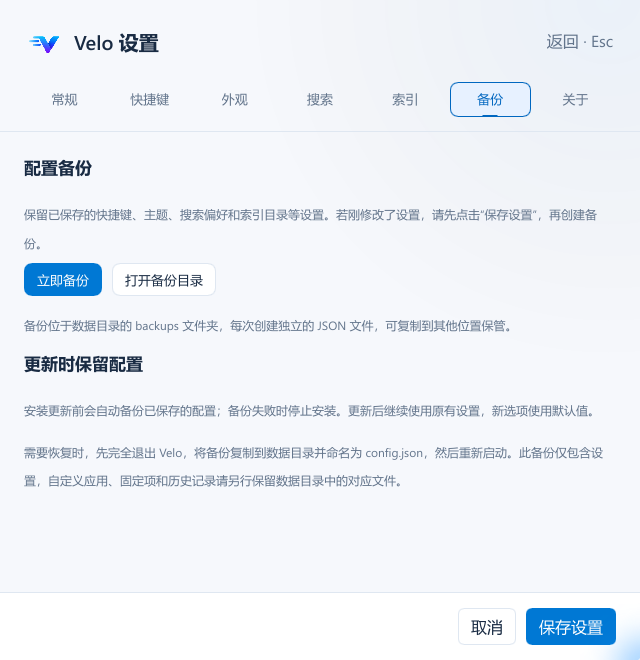
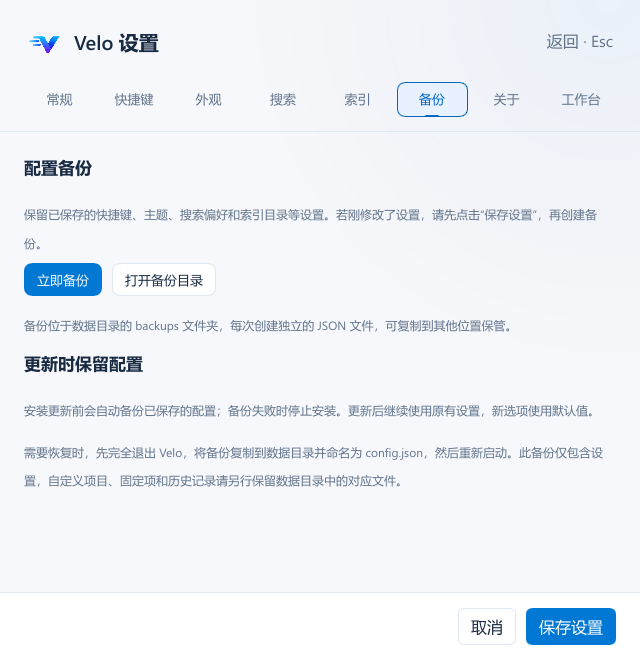
docs: 更新 Velo v0.13.0 官网截图与宣传片素材

diff --git a/docs/images/README.md b/docs/images/README.md
@@ -1,44 +1,26 @@
-# Rust + Slint 界面截图
+# Velo v0.13.0 界面截图
 
-[项目首页](../../README.md) · [用户指南](../user-guide.md) · [采集清单与校验值](capture-manifest.json)
+[项目首页](../../README.md) · [用户指南](../user-guide.md) · [宣传片素材](video-v0.13/README.md) · [采集清单与校验值](capture-manifest.json)
 
-本组 **12 张真实 Windows 窗口截图**于 2026-11-18 更新，展示 0.11.0 Software 开发构建的简体中文界面。中英文 README 共用这些图片。0.11.0 尚未发布，Everything 与启动组合不属于已发布的 v0.10.0。
+2026-11-26（北京时间）采集了 20 张 Windows 实机截图。使用 v0.13.0 标签源码的本机 Software 正式产品构建，Slint 1.18.1、winit。系统为 Windows 11 x64 26340，桌面 1920 × 1080，缩放 100%。 [版本说明](../releases/0.13.0.md)
 
-## 构建与环境
+## 启动器与工作台
 
-- Velo 0.11.0、Rust 1.99.1、Slint 1.18.1、winit、Software renderer，正式 `product` feature，使用独立实例和演示数据目录运行。
-- Windows 11 专业版 Insider Preview，10.0.26340；原生 DPI 96、缩放 100%，窗口宽度为 640 像素。
-- 构建前完成 `./scripts/verify-rust.ps1 -Product -SmokeTest`；Software / FemtoVG 各 117 项 Rust 测试及完整原生、窗口、输入和页面检查通过。
[1 lines of base64/hex data omitted]
+- 首页展示固定项目、常用项目和系统快捷。「专注工作」组合已固定。 [浅色首页](home-light.png) · [深色首页](home-dark.png)
+- 搜索「演示」查看同一组 6 个应用的名称、图标和列表路径。 [列表](search-list.png) · [六列网格](search-grid.png) · [7-Zip 原生菜单](context-menu.png)
+- 搜索「会议纪要」返回 5 个示例文件与文件夹，截图选中了文本纪要。 [文件搜索](everything-search.png) · [Everything 设置](everything-settings.png)
+- 「专注工作」组合配置了记事本、计算器和字符映射表。 [启动组合编辑器](launch-groups.png)
+- 短按侧键打开上方全局动作和下方应用动作。长按划向上方后，快捷盘提示「松开执行」。 [工作台](workspace-panel.png) · [快捷盘](workspace-gesture.png)
+- 设置和自定义项目页面。 [外观](appearance.png) · [自定义项目](custom-apps.png) · [配置备份](config-backup.png) · [关于](about.png)
 
-构建仍来自未提交工作区；源码指纹记录实际输入，不把当前 Git 提交当成干净发行构建。截图用于说明界面与操作，不构成新的性能、跨机器或真实 IME 验收。
+## 官网用图
 
-## 场景与用途
+独立官网的主题切换使用 `/assets/home-light.webp` 和 `/assets/home-dark.webp`。对应文件是 640 × 660 的无损 WebP，解码像素与上面的 PNG 一致。 [浅色 WebP](site/home-light.webp) · [深色 WebP](site/home-dark.webp)
 
-- [home-light.png](home-light.png)、[home-dark.png](home-dark.png)：640 × 660，同一组首页的深浅主题。固定、常用与系统快捷展示于同一窗口，更多内容可滚动查看。
-- [search-list.png](search-list.png)：640 × 480，查询“演示”，展示六项公开应用及真实安装路径。
-- [search-grid.png](search-grid.png)：640 × 316，同一组结果的六列网格；保留产品实际动态高度。
-- [context-menu.png](context-menu.png)：640 × 480，7-Zip 的 Windows 原生右键菜单，含打开、安装目录、管理员启动和取消置顶。
-- [appearance.png](appearance.png)：640 × 660，主题预览、浅色主题及网格排列选项。
-- [everything-search.png](everything-search.png)：640 × 504，真实 Query2 IPC 返回的六项隔离示例结果，包含文件夹、TXT、Markdown 和 CSV。
-- [everything-settings.png](everything-settings.png)：640 × 660，文件搜索开关与可选程序路径。
-- [launch-groups.png](launch-groups.png)：640 × 660，“专注工作”组合编辑器，展示筛选后的应用库和两个成员；拍摄期间没有执行组合启动。
-- [custom-apps.png](custom-apps.png)：640 × 660，拖入、选择文件、粘贴路径与公开应用列表。
-- [config-backup.png](config-backup.png)：640 × 660，备份入口及恢复说明；此图展示入口，不表示正在执行或已经完成备份。
-- [about.png](about.png)：640 × 660，当前版本、更新开关和许可入口。
+## 采集环境
 
-## 数据与采集方式
+Velo 使用独立实例、数据目录与热键。固定项、组合和使用记录使用演示数据，应用名称与图标来自本机真实应用。Everything 使用独立的 1.4.1.1015 客户端配置，只索引 `D:\VeloDemo` 的公开样例。Everything 和工作台默认关闭。
 
-固定项、自定义应用、别名和使用记录为文档准备的演示数据；自动索引与应用图标来自本机 Windows 原生发现。应用数量、常用排序与所选偏好属于演示环境，不是新安装默认值。截图中启用了 Everything，产品默认关闭。
+启动器以原始窗口位图采集。原生菜单和记事本按窗口可见边界截取，工作台与快捷盘使用桌面验证脚本的合成侧键和隔离编辑器。截图保留原比例，鼠标指针与操作光晕在画面外。清单记录尺寸、采集时间、来源、构建提交与 SHA-256。 [采集清单](capture-manifest.json)
 
-文件搜索使用已有 Everything 1.4.1.1032 程序、独立 INI 与仅包含六项公开内容的文件夹索引。图片没有包含私人文件或用户名。拍摄使用独立热键，未使用正式 `%LOCALAPPDATA%\Velo` 数据。
-
-图片直接由窗口原始位图保存为 PNG；原生菜单在其所属窗口的已观测屏幕边界内采集，以保留弹出层。没有缩放、拼接、重绘或替换界面内容。README 的显示宽度只影响页面预览，点击可查看原始文件。每张图片的尺寸、来源方法、UTC / 北京时间和 SHA-256 均保存在 [capture-manifest.json](capture-manifest.json)。
-
-拍摄实例和临时 Everything 客户端已退出，原有正式 Velo 与 Everything 服务保留。验证范围与临时资源处理见上述本轮记录。
-
-## 后续更新
-
-使用待记录构建和独立演示数据，保持主题、缩放与应用集合一致，等待图标及过渡完成后采集窗口。更新图片时同步中英文 README、用户指南及采集清单，检查版本、场景、文字、隐私和校验值。不要提交用户配置、索引、历史、缓存或本地采集日志。
-
-旧版界面截图随旧版源码保存在 [go 分支](https://github.com/HBLADEH/velo-launcher/tree/go/docs/images)；`docs/baselines/` 内的历史验证图片保留原始构建身份。
+旧版 Go/Wails 图片随历史源码保存。 [v0.9.11 截图](https://github.com/HBLADEH/velo-launcher/tree/v0.9.11/docs/images) · [Rust 验收基线](../baselines/README.md)

diff --git a/README.en.md b/README.en.md
@@ -28,36 +28,41 @@ The native UI and application logic run in a single process. Settings, the app i
 
 ## Screenshots
 
-Actual Windows captures of the **0.11.0 Software development build**, using an independent demo configuration, pins and usage records. Everything is enabled for this demo; integration is disabled by default. Images retain their captured pixel dimensions and are stored as PNG. See the [capture notes](docs/images/README.md) for build identity and all scenes. The interface is in Chinese.
+Windows captures of **Velo v0.13.0 Software**, using an independent demo configuration and sample data. The demo enables Everything and the experimental workspace. The interface is in Simplified Chinese. [Capture notes](docs/images/README.md)
 
 <p align="center">
   <picture>
     <source media="(prefers-color-scheme: dark)" srcset="docs/images/home-dark.png" />
     <source media="(prefers-color-scheme: light)" srcset="docs/images/home-light.png" />
-    <img src="docs/images/home-light.png" alt="Velo Rust home with pins, frequently used apps and Windows shortcuts" width="640" />
+    <img src="docs/images/home-light.png" alt="Velo Home with pinned apps and a launch group, frequent items and Windows shortcuts" width="640" />
   </picture>
 </p>
-<p align="center"><em>Home brings pins, frequent apps and Windows shortcuts together. Scroll to see more.</em><br /><a href="docs/images/home-light.png">View light theme</a> · <a href="docs/images/home-dark.png">View dark theme</a></p>
+<p align="center"><em>Open pinned apps, launch groups, frequent items and Windows shortcuts from Home.</em><br /><a href="docs/images/home-light.png">View light theme</a> · <a href="docs/images/home-dark.png">View dark theme</a></p>
 
 <table>
   <tr><th>List search</th><th>Grid search</th></tr>
   <tr>
     <td valign="top"><a href="docs/images/search-list.png"><img src="docs/images/search-list.png" alt="List results for public demo apps, with names, paths and selection" width="420" /></a><br />Names, paths and icons, with arrow-key selection and Enter to launch.</td>
-    <td valign="top"><a href="docs/images/search-grid.png"><img src="docs/images/search-grid.png" alt="The same ranked demo results in a six-column grid" width="420" /></a><br />The same ranking presented as an icon grid.</td>
+    <td valign="top"><a href="docs/images/search-grid.png"><img src="docs/images/search-grid.png" alt="Six demo apps in a six-column grid" width="420" /></a><br />Icons and names in a grid with four-way arrow-key selection.</td>
   </tr>
-  <tr><th>Everything file search · New in 0.11.0</th><th>Launch groups · New in 0.11.0</th></tr>
+  <tr><th>Everything file search</th><th>Launch groups</th></tr>
   <tr>
-    <td valign="top"><a href="docs/images/everything-search.png"><img src="docs/images/everything-search.png" alt="File mode shows six public sample files and folders from an isolated directory" width="420" /></a><br />Press Tab to search files and folders, then open, reveal or copy paths.</td>
-    <td valign="top"><a href="docs/images/launch-groups.png"><img src="docs/images/launch-groups.png" alt="A focus-work group with a filtered app library and Notepad and Chrome members" width="420" /></a><br />Drag library apps into a named group, save, then search its name to launch.</td>
+    <td valign="top"><a href="docs/images/everything-search.png"><img src="docs/images/everything-search.png" alt="File mode with sample meeting notes selected among other demo files and folders" width="420" /></a><br />Press Tab to search files and folders, then open, reveal or copy paths.</td>
+    <td valign="top"><a href="docs/images/launch-groups.png"><img src="docs/images/launch-groups.png" alt="A focus-work group with Notepad, Calculator and Character Map as its three members" width="420" /></a><br />Drag library apps into a named group, save, then search its name to launch.</td>
+  </tr>
+  <tr><th>Workspace (experimental)</th><th>Gesture pad (experimental)</th></tr>
+  <tr>
+    <td valign="top"><a href="docs/images/workspace-panel.png"><img src="docs/images/workspace-panel.png" alt="Workspace with global actions above and app-specific actions below" width="320" /></a><br />Tap the mouse side button to open the two-section panel.</td>
+    <td valign="top"><a href="docs/images/workspace-gesture.png"><img src="docs/images/workspace-gesture.png" alt="Gesture pad with the launcher highlighted at the top and a release-to-run message in the center" width="298" /></a><br />Hold the side button, move toward a bound direction and release to run.</td>
   </tr>
   <tr><th>Native context menu</th><th>Appearance settings</th></tr>
   <tr>
     <td valign="top"><a href="docs/images/context-menu.png"><img src="docs/images/context-menu.png" alt="7-Zip native menu with open, installation directory, administrator launch and unpin actions" width="420" /></a><br />Open installation folders, run as administrator or manage pins.</td>
-    <td valign="top"><a href="docs/images/appearance.png"><img src="docs/images/appearance.png" alt="Windows Blue appearance preview with light theme and grid layout selected" width="420" /></a><br />Choose a theme and result layout, then save.</td>
+    <td valign="top"><a href="docs/images/appearance.png"><img src="docs/images/appearance.png" alt="Windows Blue appearance preview with light theme and list layout selected" width="420" /></a><br />Choose a theme and result layout, then save.</td>
   </tr>
 </table>
 
-See the [screenshot directory](docs/images/README.md) for more captures.
+See the [screenshot directory](docs/images/README.md) for more captures and promotional video stills.
 
 ## Features
 

diff --git a/README.md b/README.md
@@ -28,36 +28,41 @@ Velo 是一款面向 **Windows 10 / 11 x64** 的中文应用启动器，使用 *
 
 ## 界面预览
 
-以下为 **0.11.0 Software 开发构建**的真实 Windows 窗口，使用独立演示配置、固定项和使用记录。演示环境启用了 Everything，该功能默认关闭。图片按原始像素保存为 PNG；构建身份与完整场景见[截图说明](docs/images/README.md)。
+以下是 **Velo v0.13.0 Software** 的 Windows 实机截图，使用独立的演示配置与示例数据。演示中开启了 Everything 和测试版工作台。 [截图说明](docs/images/README.md)
 
 <p align="center">
   <picture>
     <source media="(prefers-color-scheme: dark)" srcset="docs/images/home-dark.png" />
     <source media="(prefers-color-scheme: light)" srcset="docs/images/home-light.png" />
-    <img src="docs/images/home-light.png" alt="Velo Rust 浅色首页：固定应用、常用应用与 Windows 系统快捷" width="640" />
+    <img src="docs/images/home-light.png" alt="Velo 浅色首页，展示已固定的应用和启动组合、常用项目与 Windows 系统快捷" width="640" />
   </picture>
 </p>
-<p align="center"><em>首页：固定、常用与系统快捷集中展示，更多内容可滚动查看。</em><br /><a href="docs/images/home-light.png">查看浅色首页</a> · <a href="docs/images/home-dark.png">查看深色首页</a></p>
+<p align="center"><em>在首页打开固定应用、启动组合、常用项目与系统快捷。</em><br /><a href="docs/images/home-light.png">查看浅色首页</a> · <a href="docs/images/home-dark.png">查看深色首页</a></p>
 
 <table>
   <tr><th>列表搜索</th><th>网格搜索</th></tr>
   <tr>
     <td valign="top"><a href="docs/images/search-list.png"><img src="docs/images/search-list.png" alt="列表搜索公开演示应用，显示名称、路径和选中状态" width="420" /></a><br />名称、路径与图标一目了然，方向键选择、Enter 启动。</td>
-    <td valign="top"><a href="docs/images/search-grid.png"><img src="docs/images/search-grid.png" alt="同一组演示结果以六列网格排列" width="420" /></a><br />同一搜索排名，图标与名称按网格排列。</td>
+    <td valign="top"><a href="docs/images/search-grid.png"><img src="docs/images/search-grid.png" alt="六个演示应用以六列网格排列" width="420" /></a><br />图标与名称按网格排列，支持四个方向键选择。</td>
   </tr>
-  <tr><th>Everything 文件搜索 · 0.11.0 新增</th><th>启动组合 · 0.11.0 新增</th></tr>
+  <tr><th>Everything 文件搜索</th><th>启动组合</th></tr>
   <tr>
-    <td valign="top"><a href="docs/images/everything-search.png"><img src="docs/images/everything-search.png" alt="文件模式从隔离目录查询到六项公开示例文件和文件夹" width="420" /></a><br />Tab 切换文件模式，搜索文件与文件夹，支持打开、定位和复制路径。</td>
-    <td valign="top"><a href="docs/images/launch-groups.png"><img src="docs/images/launch-groups.png" alt="专注工作组合：左侧筛选应用库，右侧配置记事本与 Chrome 两个成员" width="420" /></a><br />从应用库拖入成员，保存后搜索组合名称即可批量打开。</td>
+    <td valign="top"><a href="docs/images/everything-search.png"><img src="docs/images/everything-search.png" alt="文件模式选中了 Velo 示例会议纪要，列表同时显示其他演示文件和文件夹" width="420" /></a><br />Tab 切换文件模式，搜索文件与文件夹，支持打开、定位和复制路径。</td>
+    <td valign="top"><a href="docs/images/launch-groups.png"><img src="docs/images/launch-groups.png" alt="专注工作组合的三个成员为记事本、计算器和字符映射表" width="420" /></a><br />从应用库拖入成员，保存后搜索组合名称即可批量打开。</td>
+  </tr>
+  <tr><th>工作台（测试版）</th><th>快捷盘（测试版）</th></tr>
+  <tr>
+    <td valign="top"><a href="docs/images/workspace-panel.png"><img src="docs/images/workspace-panel.png" alt="工作台上方是全局动作，下方是当前应用的专属动作" width="320" /></a><br />短按侧键打开双区矩阵。</td>
+    <td valign="top"><a href="docs/images/workspace-gesture.png"><img src="docs/images/workspace-gesture.png" alt="快捷盘向上选中启动器，中央显示松开执行" width="298" /></a><br />长按侧键并划向已绑定的方向，松开执行。</td>
   </tr>
   <tr><th>原生右键菜单</th><th>外观设置</th></tr>
   <tr>
     <td valign="top"><a href="docs/images/context-menu.png"><img src="docs/images/context-menu.png" alt="7-Zip 的 Windows 原生菜单，包含打开、安装目录、管理员启动和取消置顶" width="420" /></a><br />打开安装目录、以管理员权限启动，或管理首页固定项。</td>
-    <td valign="top"><a href="docs/images/appearance.png"><img src="docs/images/appearance.png" alt="外观设置中的 Windows 蓝主题预览、浅色主题和网格排列" width="420" /></a><br />选择主题与结果排列，保存后生效。</td>
+    <td valign="top"><a href="docs/images/appearance.png"><img src="docs/images/appearance.png" alt="外观设置中的 Windows 蓝主题预览、浅色主题和列表排列" width="420" /></a><br />选择主题与结果排列，保存后生效。</td>
   </tr>
 </table>
 
-更多界面原图见[截图目录](docs/images/README.md)。
+更多界面原图与宣传片定帧见[截图目录](docs/images/README.md)。
 
 ## 主要功能
 

diff --git a/docs/user-guide.md b/docs/user-guide.md
@@ -6,7 +6,7 @@
 
 从[最新发布](https://github.com/HBLADEH/velo-launcher/releases/latest)下载 `velo-rust-x64-installer.exe`（Software 默认）并确认 UAC。FemtoVG / OpenGL 替代构建为 `velo-rust-femtovg-x64-installer.exe`，切换前从托盘完全退出。当前提供系统安装版，新安装默认 `Alt+Space` 呼出；已有用户的快捷键继续保留。产品使用 Rust + Slint，界面为简体中文。
 
-本指南适用于 v0.13.0。截图来自 0.11.0 Software 开发构建的真实 Windows 窗口，使用独立演示配置与示例数据。构建身份和采集方式见[截图说明](images/README.md)。
+本指南适用于 v0.13.0。主要截图来自 v0.13.0 Software 的 Windows 实机窗口，使用独立演示配置与示例数据。 [截图说明](images/README.md)
 
 数据保存在 `%LOCALAPPDATA%\Velo`，首次打开前在同级 `VeloRustMigrationBackups` 完整保留原始数据，备份失败则停止初始化。卸载保留数据与程序恢复档案。早期版本用户请先阅读[安装与迁移说明](releases/0.10.0.md)，确认自己的安装方式对应哪条升级路径。
 
@@ -40,6 +40,11 @@
 - **长按快捷盘**按住侧键后划向目标方向，看到「松开执行」即可松手。方向动作取决于触发时的前台应用。回到中心、划入空方向或按 `Esc` 可取消。未绑定方向可从短按工作台的齿轮进入设置。
 - **动作库**可配置文本、快捷键步骤、本地批处理以及文件或网页入口。快捷键每行一步，例如 `Ctrl+K` 与 `Ctrl+S @150`，其中 `@150` 表示按下这一组合前等待 150 毫秒。文本以明文保存在本地。脚本需确认信任且保存成功后才能执行，文件或参数改变后需要重新确认。
 
+<p align="center">
+  <img src="images/workspace-panel.png" alt="短按侧键打开工作台，显示全局动作和应用动作" width="320" />
+  <img src="images/workspace-gesture.png" alt="长按侧键划向上方，快捷盘提示松开执行" width="298" />
+</p>
+
 短按矩阵支持用 `Tab` 移动焦点，再按 `Enter` 或空格执行。编辑时可把动作拖入槽位，或先选中槽位再点动作旁的「＋」。通过「交换目标」选定目标后，按 `Enter` 或点击「交换槽位」。最后点「保存设置」或按 `Ctrl+S`。应用配置按完整 `.exe` 路径或 Windows 包应用标识匹配。
 
 关闭工作台并保存会释放其侧键与热键、销毁工作台窗口并停止应用识别线程。布局、开关和绑定随 `config.json` 一并备份。
@@ -55,7 +60,7 @@
 
 进入 **设置 → 外观**，打开主题菜单，选择“跟随系统”“浅色”或“深色”。也可使用方向键移动、`Enter` 确认、`Esc` 收起菜单。主题示意图随选择更新，点击“保存设置”后应用到窗口。
 
-<p align="center"><img src="images/appearance.png" alt="Rust 外观设置：主题预览、浅色主题和网格排列" width="640" /></p>
+<p align="center"><img src="images/appearance.png" alt="Windows 蓝预览，使用浅色主题和列表排列" width="640" /></p>
 
 ## 候选项排列与右键菜单
 
@@ -95,7 +100,7 @@
 
 文件列表显示名称、所在目录和类型。↑ / ↓ 选择，Enter 或双击用默认程序打开，Ctrl+Enter 在资源管理器中定位；右键或 Shift+F10 可复制完整路径。单击只选择。文件模式空格始终用于输入，输入法合成期间不切换模式。设置页及原生弹窗仍保留原有 Tab 行为。
 
-<p align="center"><img src="images/everything-search.png" alt="文件模式中的六项隔离示例结果，包含文件夹、TXT、Markdown 和 CSV" width="640" /></p>
+<p align="center"><img src="images/everything-search.png" alt="文件模式查找会议纪要，选中 Velo 示例纪要文本文件" width="640" /></p>
 
 每页加载 50 项，点击“加载更多结果”继续，最多保留 200 项；超出时缩小搜索范围。Esc 先清空查询，再返回应用模式，应用查询为空时隐藏。隐藏后释放文件结果，重新呼出时恢复查询和选择；空闲 30 秒后关闭查询线程。打开失败保留原结果并提示。
 
@@ -107,7 +112,7 @@
 
 别名可不填。添加的成员先留在草稿中，只有保存成功后才生效；重复拖入不会重复添加，返回时会提示保留或放弃修改，切换到其他窗口则保持当前草稿。成员引用现有应用库，不会自动固定到首页。库外程序先通过已有“自定义项目”功能添加，再回到组合中选择。
 
-<p align="center"><img src="images/launch-groups.png" alt="专注工作组合编辑器：从筛选后的应用库配置记事本与 Chrome 两个成员" width="640" /></p>
+<p align="center"><img src="images/launch-groups.png" alt="专注工作组合编辑器，配置了记事本、计算器和字符映射表" width="640" /></p>
 
 搜索“开黑”，选择标记为“启动组合”的结果，按 Enter 执行；Space 沿用“空格启动”设置。Velo 一次处理一组，最多同时发出三个启动请求；已经在当前用户和会话中运行的成员会被跳过。某项失败不影响其他成员，也不会关闭已经打开的应用。
 

diff --git a/docs/images/video-v0.13/README.md b/docs/images/video-v0.13/README.md
@@ -1,0 +1,10 @@
+# Velo v0.13 宣传片截图素材
+
+按 45 秒横版分镜列出原尺寸 PNG、旧版对照和透明 Logo。Velo 界面保留窗口比例，字幕和键帽可在 1920 × 1080 时间线叠加。 [采集清单](../capture-manifest.json)
+
+- **00–07 秒 · 启动应用**　呼出后搜索「记事本」，按 `Enter` 打开空白的 Windows 记事本。 [浅色首页](../home-light.png) · [记事本搜索](notepad-search.png) · [已打开的记事本](notepad-open.png)
+- **07–10 秒、41–45 秒 · 标题与片尾**　使用 1254 × 1254 的透明渐变 Logo。 [原版 Logo](velo-logo.png)
+- **10–18 秒 · 原生重构**　以搜索框对齐两版窗口。内存口径为重构期同机 `hidden-5m` 私有工作集，含 WebView2 子进程的 Go/Wails v0.9.11 进程树为 **120.14 MiB**，Rust + Slint Software 业务测量构建为 **19.84 MiB**。 [v0.9.11 浅色首页](home-go-v0.9.11.png) · [v0.13.0 浅色首页](../home-light.png) · [新版列表](../search-list.png) · [测量记录](../../baselines/2026-11-04-slint-rs12/README.md)
+- **18–27 秒 · 启动组合**　本批用「专注工作」演示记事本、计算器和字符映射表。一次 `Enter` 后，Velo 显示已发出 3 个启动请求。 [组合编辑器](../launch-groups.png) · [组合搜索](launch-group-search.png) · [启动回执](launch-group-result.png)
+- **27–36 秒 · Everything**　按 `Tab` 进入文件模式，搜索「会议纪要」，用 `↓` 选中文本纪要，再按 `Enter` 打开。 [文件模式](file-mode.png) · [选中示例文件](../everything-search.png) · [已打开的纪要](meeting-notepad.png) · [演示用文本](Velo示例-会议纪要.txt)
+- **36–41 秒 · 工作台与手势测试版**　短按打开双区矩阵，长按划向上方后高亮启动器，并显示「松开执行」。 [工作台](../workspace-panel.png) · [快捷盘](../workspace-gesture.png)

diff --git a/docs/README.md b/docs/README.md
@@ -8,7 +8,7 @@
 
 - [用户指南](user-guide.md)：安装、快捷键、搜索、自定义应用、备份、更新与数据目录。
 - [系统快捷入口](system-shortcuts.md)：入口列表、操作语义与兼容范围。
-- [截图说明](images/README.md)：12 张当前界面原图、场景、构建身份和采集方式。
+- v0.13.0 启动器、工作台、宣传片分镜及构建与采集记录。 [界面截图](images/README.md)
 - [实现流程图](diagrams/README.md)：中英文 SVG 及重新生成方式。
 - [v0.13.0 版本说明](releases/0.13.0.md) · [v0.12.0 版本说明](releases/0.12.0.md) · [v0.11.2 版本说明](releases/0.11.2.md) · [v0.11.0 版本说明](releases/0.11.0.md) · [v0.10.0 版本说明](releases/0.10.0.md)
 
